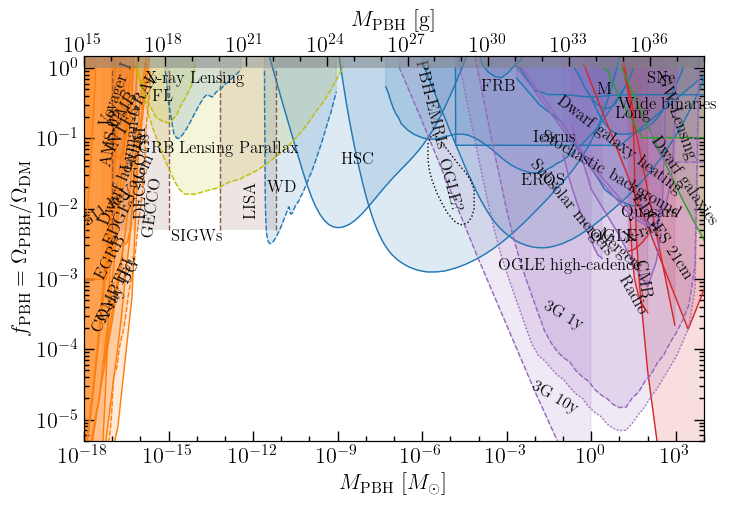
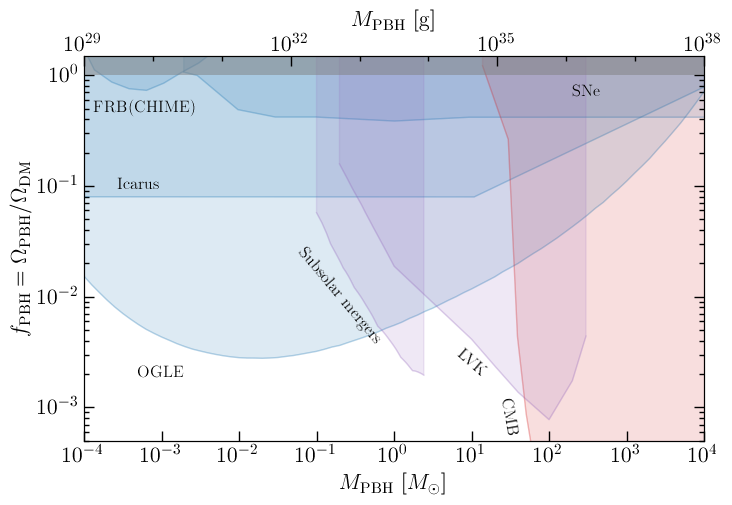
push

diff --git a/PlotPBHbounds.py b/PlotPBHbounds.py
@@ -32,7 +32,7 @@ mpl.rcParams['legend.edgecolor'] = 'inherit'
 plot_SGWB_range = True
 
 #Default values, overridden if you pass in command line arguments
-listfile_default = "listfiles/bounds_all.txt" 
+listfile_default = "listfiles/bounds_solarmass.txt" 
 outfile_default = "plots/PBH_bounds.png"
 
 #Load in the filename with the list of bounds and the output filename
@@ -83,7 +83,7 @@ def addConstraint(boundID, col='blue',x = 1e-30,y=1e-4,ang=0, linestyle='-', lab
     linewidth = 1.0
     #if (boundID in ["Microlensing", "Evaporation"]):
     #    linewidth=2.0
-    plt.plot(m, f, color=col, lw=linewidth, linestyle=linestyle)
+    plt.plot(m, f, color=col, lw=linewidth, linestyle=linestyle, alpha=0.2)
     
     if (x > 1e-20):
         plt.text(x, y, labeltext.replace("_", " "), rotation=ang, fontsize=12, ha='center', va='center')
@@ -123,13 +123,13 @@ for i in range(len(bounds)):
         addConstraint(bounds[i], col = colors[i], x = xlist[i], y = ylist[i], ang=anglist[i], linestyle=lines[i], labeltext=labellist[i])
 
 
-Msun_min = 1e-18
+Msun_min = 1e-4
 Msun_max = 1e4
 
 #Plotting stuff
 plt.axhspan(1, 1.5, facecolor='grey', alpha=0.5, zorder=10)
     
-plt.ylim(5e-6, 1.5)
+plt.ylim(5e-4, 1.5)
 plt.xlim(Msun_min, Msun_max)
     
 xticks = 10**np.arange(np.floor(np.log10(Msun_min)), np.ceil(np.log10(Msun_max))+1)
